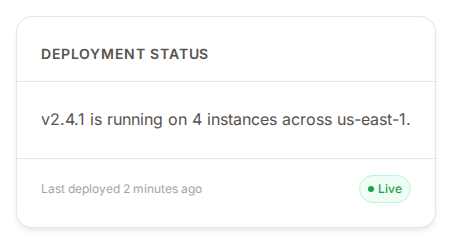
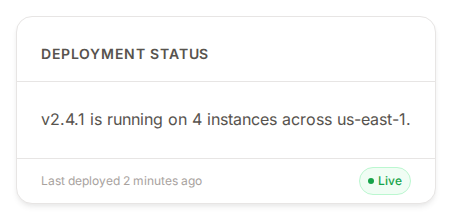
Further reduce Card footer height and re-verify Storybook iframe screenshots (#224)

diff --git a/packages/storybook-components/src/components/Card.tsx b/packages/storybook-components/src/components/Card.tsx
@@ -22,7 +22,7 @@ export function Card({ title, footer, children }: CardProps) {
         {children}
       </div>
       {footer !== undefined && (
-        <div className="px-[var(--space-6)] pb-[var(--space-6)] pt-[var(--space-4)] border-t border-[color:var(--color-border)]">
+        <div className="px-[var(--space-6)] py-[var(--space-2)] border-t border-[color:var(--color-border)]">
           {footer}
         </div>
       )}
